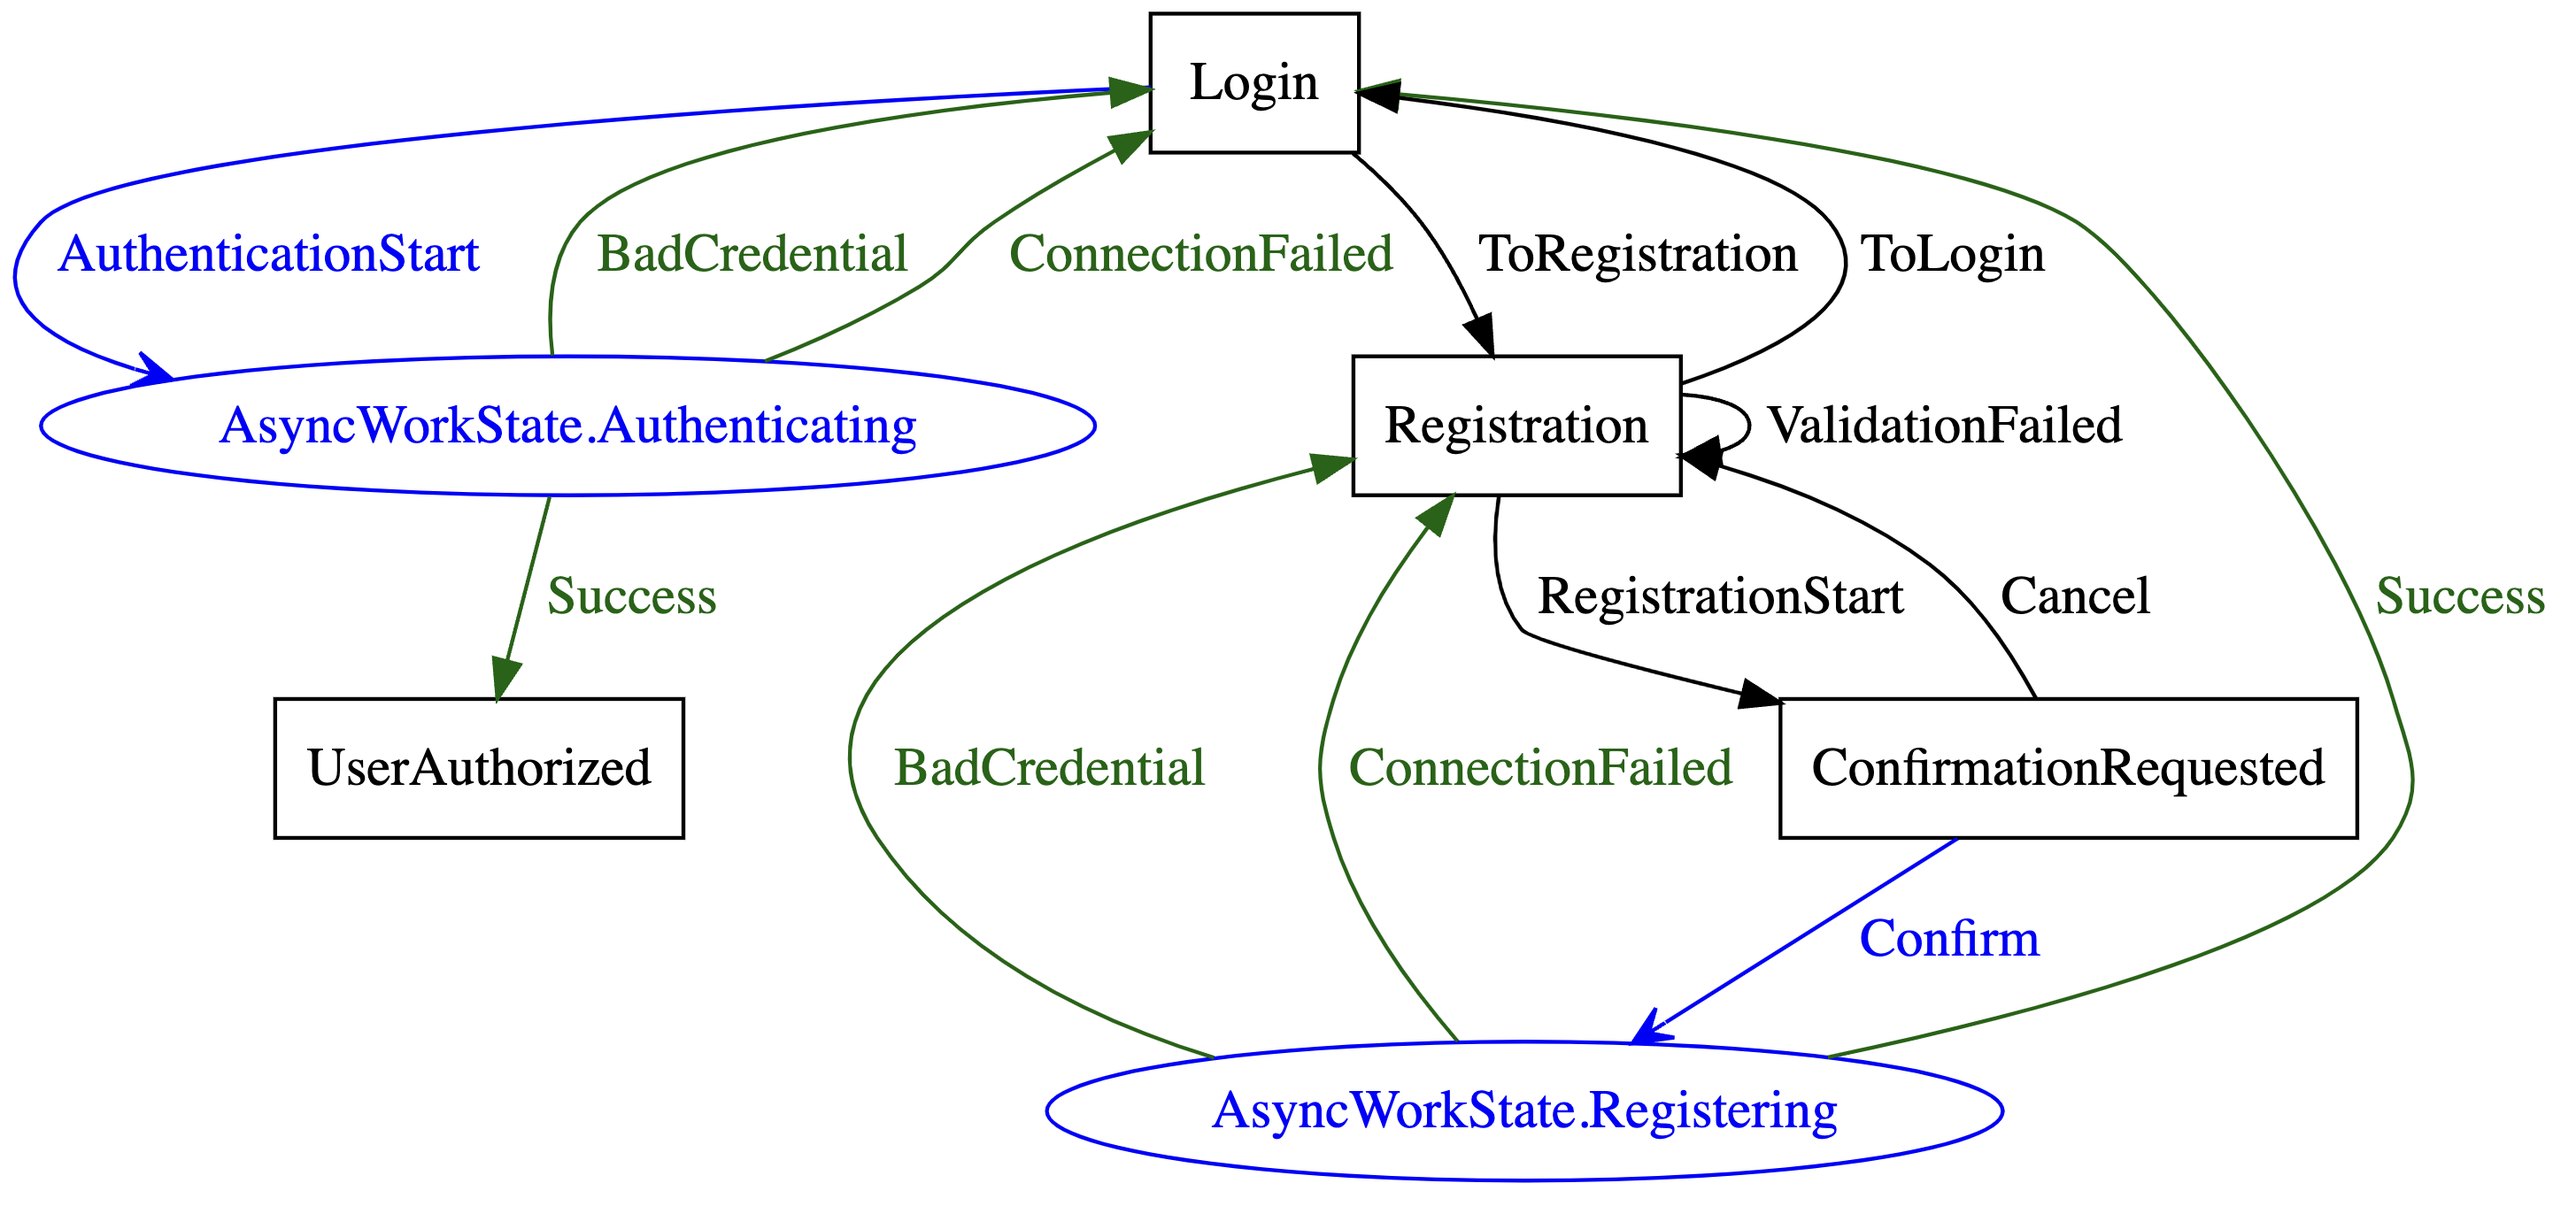
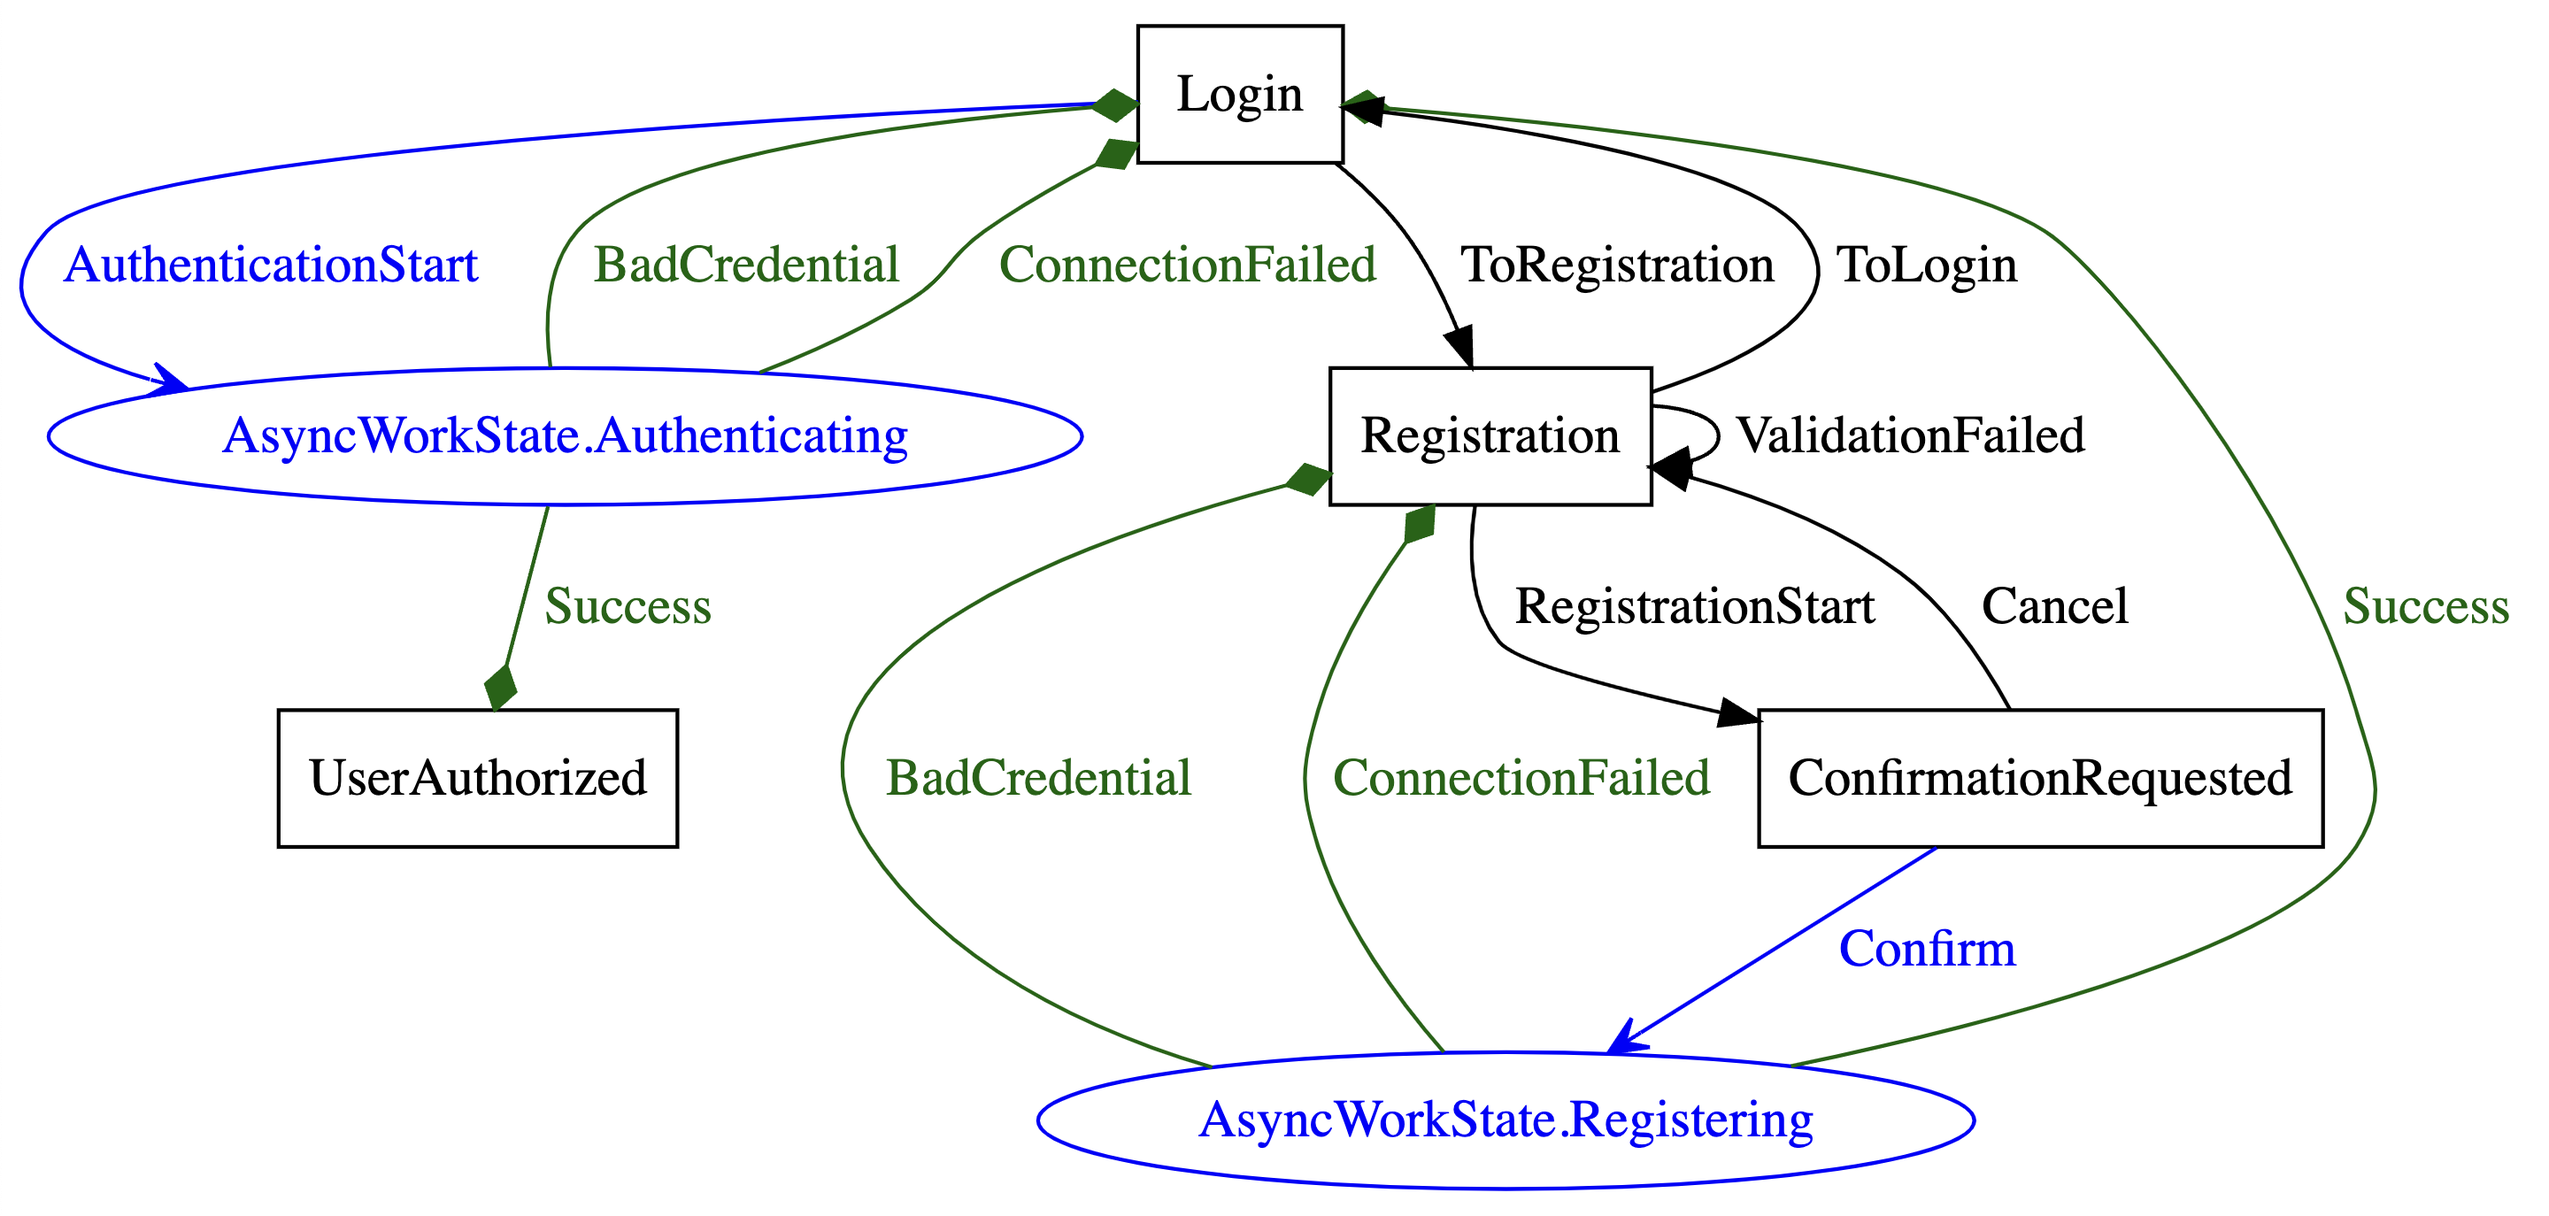
Add DotAttributesDefaultPreset and review fixes

diff --git a/visualfsm-rxjava2/src/test/kotlin/ru/kontur/mobile/visualfsm/baseTests/StateMachineRxTests.kt b/visualfsm-rxjava2/src/test/kotlin/ru/kontur/mobile/visualfsm/baseTests/StateMachineRxTests.kt
@@ -13,13 +13,6 @@ import ru.kontur.mobile.visualfsm.baseTests.testFSM.action.TestFSMAction
 import ru.kontur.mobile.visualfsm.baseTests.rx.TestFSMAsyncWorkerRx
 import ru.kontur.mobile.visualfsm.baseTests.rx.TestFSMFeatureRx
 import ru.kontur.mobile.visualfsm.tools.VisualFSM
-import ru.kontur.mobile.visualfsm.tools.graphviz.DotAttributes
-import ru.kontur.mobile.visualfsm.tools.graphviz.EdgeAttributes
-import ru.kontur.mobile.visualfsm.tools.graphviz.GraphAttributes
-import ru.kontur.mobile.visualfsm.tools.graphviz.NodeAttributes
-import ru.kontur.mobile.visualfsm.tools.graphviz.enums.ArrowHead
-import ru.kontur.mobile.visualfsm.tools.graphviz.enums.Color
-import ru.kontur.mobile.visualfsm.tools.graphviz.enums.NodeShape
 
 class StateMachineRxTests {
 
@@ -42,60 +35,6 @@ class StateMachineRxTests {
                     "\"Async\" -> \"Complete\" [label=\" Success \"]\n" +
                     "\"Initial\" -> \"Async\" [label=\" Start \"]\n" +
                     "\"Async\" -> \"Async\" [label=\" StartOther \"]\n" +
-                    "}\n", digraph
-        )
-    }
-
-    @Test
-    fun generateDigraphWithAttributesTest() {
-        val digraph = VisualFSM.generateDigraph(
-            baseAction = TestFSMAction::class,
-            baseState = TestFSMState::class,
-            initialState = TestFSMState.Initial::class,
-            attributes = DotAttributes(
-                graphAttributes = GraphAttributes(raw = "rankdir=LR;\nsize=\"8,5\""),
-                nodeAttributes = { state ->
-                    if (state == TestFSMState.Async::class) {
-                        NodeAttributes(
-                            shape = NodeShape.Octagon,
-                            color = Color.Blue,
-                            fontColor = Color.White,
-                            raw = "style=filled"
-                        )
-                    } else {
-                        NodeAttributes(
-                            shape = NodeShape.Box,
-                            color = Color.Black,
-                            fontColor = Color.Black
-                        )
-                    }
-                },
-                edgeAttributes = { from, _ ->
-                    if (from == TestFSMState.Async::class) {
-                        EdgeAttributes(
-                            arrowHead = ArrowHead.Empty,
-                            color = Color.Blue,
-                            fontColor = Color.DarkGreen,
-                            raw = "color=darkgreen"
-                        )
-                    } else EdgeAttributes()
-                }
-            )
-        )
-
-        assertEquals(
-            "digraph TestFSMStateTransitions {\n" +
-                    "rankdir=LR;\n" +
-                    "size=\"8,5\"\n" +
-                    "\"Initial\" [ shape=box]\n" +
-                    "\"Async\" [ color=blue fontcolor=white shape=octagon style=filled]\n" +
-                    "\"Complete\" [ shape=box]\n" +
-                    "\"Error\" [ shape=box]\n" +
-                    "\"Async\" -> \"Initial\" [label=\" Cancel \" color=blue fontcolor=darkgreen arrowhead=empty color=darkgreen]\n" +
-                    "\"Async\" -> \"Error\" [label=\" Error \" color=blue fontcolor=darkgreen arrowhead=empty color=darkgreen]\n" +
-                    "\"Async\" -> \"Complete\" [label=\" Success \" color=blue fontcolor=darkgreen arrowhead=empty color=darkgreen]\n" +
-                    "\"Initial\" -> \"Async\" [label=\" Start \"]\n" +
-                    "\"Async\" -> \"Async\" [label=\" StartOther \" color=blue fontcolor=darkgreen arrowhead=empty color=darkgreen]\n" +
                     "}\n", digraph
         )
     }

diff --git a/visualfsm-rxjava3/src/test/kotlin/ru/kontur/mobile/visualfsm/baseTests/StateMachineRxTests.kt b/visualfsm-rxjava3/src/test/kotlin/ru/kontur/mobile/visualfsm/baseTests/StateMachineRxTests.kt
@@ -13,13 +13,6 @@ import ru.kontur.mobile.visualfsm.baseTests.testFSM.action.TestFSMAction
 import ru.kontur.mobile.visualfsm.baseTests.rx.TestFSMAsyncWorkerRx
 import ru.kontur.mobile.visualfsm.baseTests.rx.TestFSMFeatureRx
 import ru.kontur.mobile.visualfsm.tools.VisualFSM
-import ru.kontur.mobile.visualfsm.tools.graphviz.DotAttributes
-import ru.kontur.mobile.visualfsm.tools.graphviz.EdgeAttributes
-import ru.kontur.mobile.visualfsm.tools.graphviz.GraphAttributes
-import ru.kontur.mobile.visualfsm.tools.graphviz.NodeAttributes
-import ru.kontur.mobile.visualfsm.tools.graphviz.enums.ArrowHead
-import ru.kontur.mobile.visualfsm.tools.graphviz.enums.Color
-import ru.kontur.mobile.visualfsm.tools.graphviz.enums.NodeShape
 
 class StateMachineRxTests {
 
@@ -42,60 +35,6 @@ class StateMachineRxTests {
                     "\"Async\" -> \"Complete\" [label=\" Success \"]\n" +
                     "\"Initial\" -> \"Async\" [label=\" Start \"]\n" +
                     "\"Async\" -> \"Async\" [label=\" StartOther \"]\n" +
-                    "}\n", digraph
-        )
-    }
-
-    @Test
-    fun generateDigraphWithAttributesTest() {
-        val digraph = VisualFSM.generateDigraph(
-            baseAction = TestFSMAction::class,
-            baseState = TestFSMState::class,
-            initialState = TestFSMState.Initial::class,
-            attributes = DotAttributes(
-                graphAttributes = GraphAttributes(raw = "rankdir=LR;\nsize=\"8,5\""),
-                nodeAttributes = { state ->
-                    if (state == TestFSMState.Async::class) {
-                        NodeAttributes(
-                            shape = NodeShape.Octagon,
-                            color = Color.Blue,
-                            fontColor = Color.White,
-                            raw = "style=filled"
-                        )
-                    } else {
-                        NodeAttributes(
-                            shape = NodeShape.Box,
-                            color = Color.Black,
-                            fontColor = Color.Black
-                        )
-                    }
-                },
-                edgeAttributes = { from, _ ->
-                    if (from == TestFSMState.Async::class) {
-                        EdgeAttributes(
-                            arrowHead = ArrowHead.Empty,
-                            color = Color.Blue,
-                            fontColor = Color.DarkGreen,
-                            raw = "color=darkgreen"
-                        )
-                    } else EdgeAttributes()
-                }
-            )
-        )
-
-        assertEquals(
-            "digraph TestFSMStateTransitions {\n" +
-                    "rankdir=LR;\n" +
-                    "size=\"8,5\"\n" +
-                    "\"Initial\" [ shape=box]\n" +
-                    "\"Async\" [ color=blue fontcolor=white shape=octagon style=filled]\n" +
-                    "\"Complete\" [ shape=box]\n" +
-                    "\"Error\" [ shape=box]\n" +
-                    "\"Async\" -> \"Initial\" [label=\" Cancel \" color=blue fontcolor=darkgreen arrowhead=empty color=darkgreen]\n" +
-                    "\"Async\" -> \"Error\" [label=\" Error \" color=blue fontcolor=darkgreen arrowhead=empty color=darkgreen]\n" +
-                    "\"Async\" -> \"Complete\" [label=\" Success \" color=blue fontcolor=darkgreen arrowhead=empty color=darkgreen]\n" +
-                    "\"Initial\" -> \"Async\" [label=\" Start \"]\n" +
-                    "\"Async\" -> \"Async\" [label=\" StartOther \" color=blue fontcolor=darkgreen arrowhead=empty color=darkgreen]\n" +
                     "}\n", digraph
         )
     }

diff --git a/visualfsm-tools/src/main/kotlin/ru/kontur/mobile/visualfsm/tools/graphviz/preset/DotAttributesDefaultPreset.kt b/visualfsm-tools/src/main/kotlin/ru/kontur/mobile/visualfsm/tools/graphviz/preset/DotAttributesDefaultPreset.kt
@@ -1,0 +1,55 @@
+package ru.kontur.mobile.visualfsm.tools.graphviz.preset
+
+import ru.kontur.mobile.visualfsm.State
+import ru.kontur.mobile.visualfsm.tools.graphviz.DotAttributes
+import ru.kontur.mobile.visualfsm.tools.graphviz.EdgeAttributes
+import ru.kontur.mobile.visualfsm.tools.graphviz.NodeAttributes
+import ru.kontur.mobile.visualfsm.tools.graphviz.enums.ArrowHead
+import ru.kontur.mobile.visualfsm.tools.graphviz.enums.Color
+import ru.kontur.mobile.visualfsm.tools.graphviz.enums.NodeShape
+import kotlin.reflect.KClass
+import kotlin.reflect.full.isSubclassOf
+
+/**
+ * DOT language attributes preset, use this or create your own preset for your project
+ * Displays static states as a black square,
+ * states that are handled in AsyncWorker as a blue oval,
+ * transitions to states for handling in AsyncWorker as blue arrows with vee head,
+ * transitions that return the result of AsyncWorker task as dark green arrows with diamond head
+ * @param asyncWorkState - base KClass for states handled in AsyncWorker
+ */
+class DotAttributesDefaultPreset<STATE : State>(
+    asyncWorkState: KClass<out STATE>,
+) : DotAttributes<STATE>(
+    nodeAttributes = { state ->
+        when {
+            state.isSubclassOf(asyncWorkState) -> {
+                NodeAttributes(
+                    shape = NodeShape.Oval,
+                    color = Color.Blue,
+                    fontColor = Color.Blue
+                )
+            }
+
+            else -> NodeAttributes(shape = NodeShape.Box)
+        }
+    },
+
+    edgeAttributes = { from, to ->
+        when {
+            to.isSubclassOf(asyncWorkState) -> EdgeAttributes(
+                arrowHead = ArrowHead.Vee,
+                color = Color.Blue,
+                fontColor = Color.Blue,
+            )
+
+            from.isSubclassOf(asyncWorkState) -> EdgeAttributes(
+                arrowHead = ArrowHead.Diamond,
+                color = Color.DarkGreen,
+                fontColor = Color.DarkGreen,
+            )
+
+            else -> EdgeAttributes()
+        }
+    }
+)

diff --git a/visualfsm-tools/src/main/kotlin/ru/kontur/mobile/visualfsm/tools/internal/DOTGenerator.kt b/visualfsm-tools/src/main/kotlin/ru/kontur/mobile/visualfsm/tools/internal/DOTGenerator.kt
@@ -54,29 +54,47 @@ internal object DOTGenerator {
             initialState
         )
 
-        result.append("\"${initialState.simpleStateNameWithSealedName(baseState)}\"")
+        result.append(
+            getNodeWithAttributes(
+                attributes = attributes,
+                state = initialState,
+                unreachableStatesSet = unreachableStatesSet,
+                baseState = baseState
+            )
+        )
+
+        stateKClassSetWithoutInitial.forEach { stateKClass ->
+            result.append(
+                getNodeWithAttributes(
+                    attributes = attributes,
+                    state = stateKClass,
+                    unreachableStatesSet = unreachableStatesSet,
+                    baseState = baseState
+                )
+            )
+        }
+
+        return result.toString()
+    }
+
+    private fun <STATE : State> getNodeWithAttributes(
+        attributes: DotAttributes<STATE>,
+        state: KClass<out STATE>,
+        unreachableStatesSet: Set<KClass<out STATE>>,
+        baseState: KClass<STATE>,
+    ): String {
+        val result = StringBuilder()
+
+        result.append("\"${state.simpleStateNameWithSealedName(baseState)}\"")
         result.append(
             " [${
                 getAttributesForNode(
                     attributes,
-                    initialState,
+                    state,
                     unreachableStatesSet
                 )
             }]\n"
         )
-
-        stateKClassSetWithoutInitial.forEach { stateKClass ->
-            result.append("\"${stateKClass.simpleStateNameWithSealedName(baseState)}\"")
-            result.append(
-                " [${
-                    getAttributesForNode(
-                        attributes,
-                        stateKClass,
-                        unreachableStatesSet
-                    )
-                }]\n"
-            )
-        }
 
         return result.toString()
     }

diff --git a/visualfsm-tools/src/main/kotlin/ru/kontur/mobile/visualfsm/tools/graphviz/DotAttributes.kt b/visualfsm-tools/src/main/kotlin/ru/kontur/mobile/visualfsm/tools/graphviz/DotAttributes.kt
@@ -12,7 +12,7 @@ import kotlin.reflect.KClass
  * @property nodeAttributes - function, returns attributes for node
  * @property edgeAttributes - function, returns attributes for edge
  */
-class DotAttributes<STATE : State>(
+open class DotAttributes<STATE : State>(
     val graphAttributes: GraphAttributes = GraphAttributes(),
     val nodeAttributes: (state: KClass<out STATE>) -> NodeAttributes = { _ -> NodeAttributes() },
     val edgeAttributes: (from: KClass<out STATE>, to: KClass<out STATE>) -> EdgeAttributes = { _, _ -> EdgeAttributes() },

diff --git a/README.md b/README.md
@@ -77,13 +77,15 @@ See in [Quickstart](docs/Quickstart.md)
 Visualization lets you spend less time on understanding complex business process and makes it easier
 for _debugging_, _adding new features_, and _refactoring old ones_.
 
-<img src="docs/img/graph.png" alt="graph" width="600"/>
+<img src="docs/img/graph.png" alt="graph" width="800"/>
 
 A simplified FSM graph sample of user authorization and registration.
 
 ### Visualization customization
 
 To increase the readability of the graph, you can control the rendering rules using the 'DotAttributes' object when generating the graph.
+You can use 'DotAttributesDefaultPreset' class or create own preset for your project.
+
 
 <img src="./docs/img/graph_with_attributes.png" alt="graph with attributes" width="800"/>
 

diff --git a/docs/ru/README-RU.md b/docs/ru/README-RU.md
@@ -85,6 +85,7 @@ _поиск ошибок_, _добавление нового функциона
 ### Кастомизация визуализации графа
 
 Для повышения читаемости графа вы можете управлять правилами отрисовки используя 'DotAttributes' объект при генерации графа.
+Используйте 'DotAttributesDefaultPreset' класс или создайте собственный для своего проекта.
 
 <img src="../img/graph_with_attributes.png" alt="graph with attributes" width="800"/>
 
